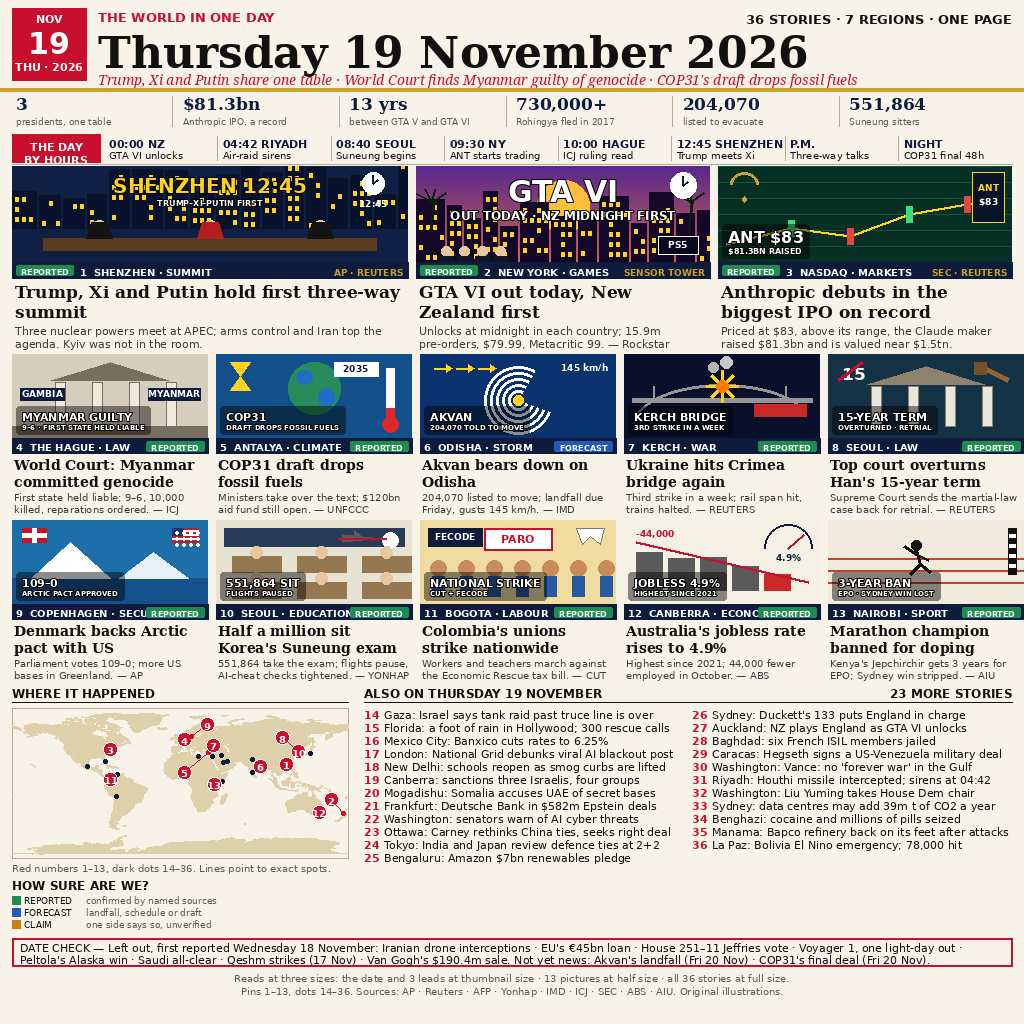
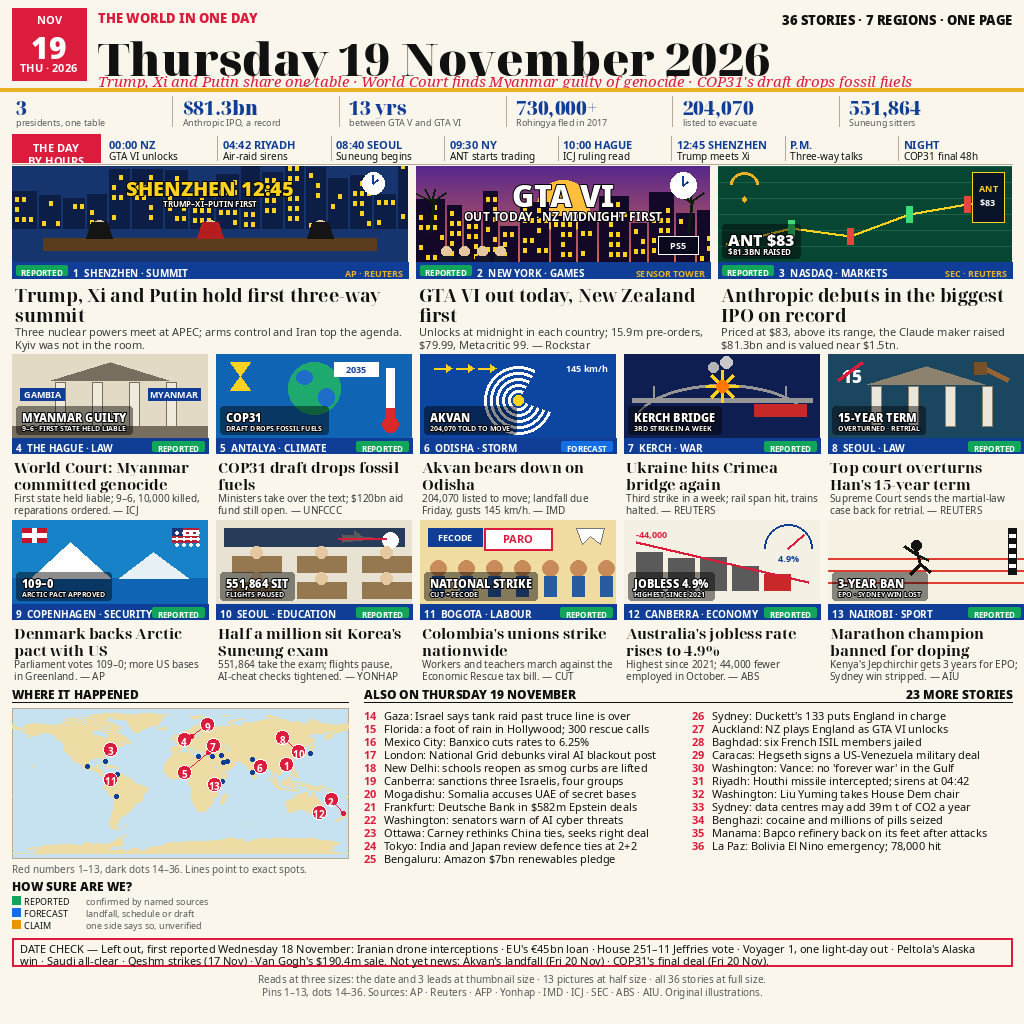
v6: better fonts + brighter colours (Noto Serif Display Black/Bold headlines, Noto Sans labels/body, crimson/blue/gold palette, ocean map, brightened art scenes)

diff --git a/draw.py b/draw.py
@@ -1,15 +1,13 @@
 #!/usr/bin/env python3
-"""news-image-20261119 v5: 36 stories, newspaper front page after the top 1/2.
+"""news-image-20261119 v6: 36 stories, newspaper front page after the top 1/2.
 Draws entry.png (1024x1024, deterministic) from world.geo.json only.
-v5 vs v4: masthead is the date in serif on paper with a red italic deck
-naming the 3 leads; big-numbers strip (3 / $81.3bn / 13 yrs / 730,000+ /
-204,070 / 551,864); timeline retitled THE DAY BY HOURS with the verified
-04:42 Riyadh sirens beat; front 13 reshuffled to the winners' selection —
-ICJ now states the verdict (9-6 guilty, first state ever held liable),
-Kerch bridge (3rd strike in a week), Han's 15-year term overturned,
-Greenland 109-0, Jepchirchir 3-year EPO ban — all verified live 20 Nov;
-every front story carries a REPORTED/FORECAST status pill and the map is
-filled continents (not dots); HOW SURE ARE WE? legend under the map.
+v6 vs v5: better fonts + brighter colours for readability — Noto Serif
+Display Black/Bold for the masthead date, headlines and big numbers,
+Noto Sans Black/Bold for kickers, pills and in-art labels, Noto Sans for
+body text; brighter palette (crimson red, vivid blue, brighter green/blue/
+amber pills, gold rule); map gets a light-blue ocean under brighter sand
+continents; art scenes brightened (summit, Anthropic, COP31, Akvan, Kerch,
+Han, Greenland, marathon).
 Run: python3 draw.py  -> writes entry.png in this directory."""
 import json
 import math
@@ -18,14 +16,16 @@ from PIL import Image, ImageDraw, ImageFont
 
 HERE = os.path.dirname(os.path.abspath(__file__))
 W, H = 1024, 1024
-PAPER = (247, 243, 232)
+PAPER = (250, 246, 235)
 INK = (17, 17, 17)
-NAVY = (14, 27, 61)
-RED = (200, 16, 46)
-GOLD = (201, 162, 39)
+NAVY = (16, 62, 150)
+RED = (220, 28, 60)
+GOLD = (232, 178, 36)
 YELLOW = (255, 210, 31)
 GREY = (90, 90, 90)
 RULE = (180, 170, 150)
+OCEAN = (198, 226, 240)
+SAND = (238, 220, 165)
 
 FD = "/usr/share/fonts/truetype/dejavu"
 FNOTO = "/usr/share/fonts/truetype/noto"
@@ -35,45 +35,45 @@ def font(name, size, base=FD):
     return ImageFont.truetype(os.path.join(base, name), size)
 
 
-F_TITLE = font("DejaVuSerif-Bold.ttf", 44)
-F_EYE = font("DejaVuSans-Bold.ttf", 13)
-F_DECKLINE = font("NotoSerif-Italic.ttf", 14, FNOTO)
-F_DATE = font("DejaVuSans-Bold.ttf", 30)
-F_DATE2 = font("DejaVuSans-Bold.ttf", 11)
-F_TTIME = font("DejaVuSans-Bold.ttf", 11)
-F_TTEXT = font("DejaVuSans.ttf", 10)
-F_KICK = font("DejaVuSans-Bold.ttf", 10)
-F_PILL = font("DejaVuSans-Bold.ttf", 8)
-F_SRC = font("DejaVuSans-Bold.ttf", 9)
-F_HEAD = font("DejaVuSerif-Bold.ttf", 17)
-F_HEAD_S = font("DejaVuSerif-Bold.ttf", 14)
-F_DECK = font("DejaVuSans.ttf", 11)
-F_DECK_S = font("DejaVuSans.ttf", 10)
-F_LABEL = font("DejaVuSans-Bold.ttf", 8)
-F_PIN = font("DejaVuSans-Bold.ttf", 10)
-F_ART = font("DejaVuSans-Bold.ttf", 24)
-F_ART_S = font("DejaVuSans-Bold.ttf", 12)
-F_ART2 = font("DejaVuSans-Bold.ttf", 17)
-F_ART2_S = font("DejaVuSans-Bold.ttf", 11)
-F_FOC = font("DejaVuSans-Bold.ttf", 30)
-F_FOC_S = font("DejaVuSans-Bold.ttf", 12)
-F_FOC23 = font("DejaVuSans-Bold.ttf", 20)   # 2/3 of F_FOC (hero 1 only)
-F_FOC23_S = font("DejaVuSans-Bold.ttf", 8)  # 2/3 of F_FOC_S
-F_LBL = font("DejaVuSans-Bold.ttf", 16)     # 2/3 of F_ART (hero 3 label)
-F_LBL_S = font("DejaVuSans-Bold.ttf", 8)    # 2/3 of F_ART_S
-F_LBL2 = font("DejaVuSans-Bold.ttf", 11)    # 2/3 of F_ART2 (small-card labels)
-F_LBL2_S = font("DejaVuSans-Bold.ttf", 7)   # 2/3 of F_ART2_S
-F_ALSO = font("DejaVuSans.ttf", 11)
-F_ALSO_N = font("DejaVuSans-Bold.ttf", 11)
-F_SEC = font("DejaVuSans-Bold.ttf", 12)
-F_STATB = font("DejaVuSerif-Bold.ttf", 17)
-F_STATC = font("DejaVuSans.ttf", 9)
-F_LEGEND = font("DejaVuSans.ttf", 9)
-F_DATECHK = font("DejaVuSans.ttf", 11)
-F_FOOT = font("DejaVuSans.ttf", 10)
+F_TITLE = font("NotoSerifDisplay-Black.ttf", 46, FNOTO)
+F_EYE = font("NotoSans-Black.ttf", 13, FNOTO)
+F_DECKLINE = font("NotoSerif-Italic.ttf", 15, FNOTO)
+F_DATE = font("NotoSans-Black.ttf", 30, FNOTO)
+F_DATE2 = font("NotoSans-Bold.ttf", 11, FNOTO)
+F_TTIME = font("NotoSans-Bold.ttf", 11, FNOTO)
+F_TTEXT = font("NotoSans-Regular.ttf", 10, FNOTO)
+F_KICK = font("NotoSans-Bold.ttf", 10, FNOTO)
+F_PILL = font("NotoSans-Bold.ttf", 8, FNOTO)
+F_SRC = font("NotoSans-Bold.ttf", 9, FNOTO)
+F_HEAD = font("NotoSerifDisplay-Bold.ttf", 18, FNOTO)
+F_HEAD_S = font("NotoSerifDisplay-Bold.ttf", 15, FNOTO)
+F_DECK = font("NotoSans-Regular.ttf", 11, FNOTO)
+F_DECK_S = font("NotoSans-Regular.ttf", 10, FNOTO)
+F_LABEL = font("NotoSans-Bold.ttf", 8, FNOTO)
+F_PIN = font("NotoSans-Bold.ttf", 10, FNOTO)
+F_ART = font("NotoSans-Black.ttf", 24, FNOTO)
+F_ART_S = font("NotoSans-Bold.ttf", 12, FNOTO)
+F_ART2 = font("NotoSans-Black.ttf", 17, FNOTO)
+F_ART2_S = font("NotoSans-Bold.ttf", 11, FNOTO)
+F_FOC = font("NotoSans-Black.ttf", 30, FNOTO)
+F_FOC_S = font("NotoSans-Bold.ttf", 12, FNOTO)
+F_FOC23 = font("NotoSans-Black.ttf", 20, FNOTO)   # 2/3 of F_FOC (hero 1 only)
+F_FOC23_S = font("NotoSans-Bold.ttf", 8, FNOTO)  # 2/3 of F_FOC_S
+F_LBL = font("NotoSans-Black.ttf", 16, FNOTO)     # 2/3 of F_ART (hero 3 label)
+F_LBL_S = font("NotoSans-Bold.ttf", 8, FNOTO)    # 2/3 of F_ART_S
+F_LBL2 = font("NotoSans-Black.ttf", 11, FNOTO)    # 2/3 of F_ART2 (small-card labels)
+F_LBL2_S = font("NotoSans-Bold.ttf", 7, FNOTO)   # 2/3 of F_ART2_S
+F_ALSO = font("NotoSans-Regular.ttf", 11, FNOTO)
+F_ALSO_N = font("NotoSans-Bold.ttf", 11, FNOTO)
+F_SEC = font("NotoSans-Black.ttf", 12, FNOTO)
+F_STATB = font("NotoSerifDisplay-Black.ttf", 19, FNOTO)
+F_STATC = font("NotoSans-Regular.ttf", 9, FNOTO)
+F_LEGEND = font("NotoSans-Regular.ttf", 9, FNOTO)
+F_DATECHK = font("NotoSans-Regular.ttf", 11, FNOTO)
+F_FOOT = font("NotoSans-Regular.ttf", 10, FNOTO)
 
-PILL_COL = {"REPORTED": (30, 140, 80), "FORECAST": (36, 90, 180),
-            "CLAIM": (200, 130, 10)}
+PILL_COL = {"REPORTED": (16, 165, 90), "FORECAST": (20, 110, 230),
+            "CLAIM": (230, 150, 0)}
 
 TIMELINE = [
     ("00:00 NZ", "GTA VI unlocks"),
@@ -302,13 +302,12 @@ def art_image(key, w, h):
     img = Image.new("RGB", (w, h), PAPER)
     d = ImageDraw.Draw(img)
     if key == "summit":
-        d.rectangle([0, 0, w, h], fill=(16, 32, 68))
-        _skyline(d, w, h, h - 34, (8, 18, 44), 7)
-        # wall clock 12:45, top right (focal text occupies the centre top)
+        d.rectangle([0, 0, w, h], fill=(22, 52, 110))
+        _skyline(d, w, h, h - 34, (12, 30, 70), 7)
+        # wall clock 12:45, top right (no label: the focal text says 12:45)
         d.ellipse([w - 46, 6, w - 24, 28], fill="white")
         d.line([w - 35, 17, w - 35, 9], fill=NAVY, width=2)
         d.line([w - 35, 17, w - 30, 13], fill=NAVY, width=2)
-        d.text((w - 35, 32), "12:45", font=F_SRC, fill="white", anchor="ma")
         # three leaders seated at one round table (below the focal text)
         d.rectangle([w * 0.08, h - 24, w * 0.92, h - 12], fill=(90, 60, 30))
         for i in range(3):
@@ -342,9 +341,9 @@ def art_image(key, w, h):
             d.ellipse([cx - 5, h - 16, cx + 5, h - 6], fill=(230, 200, 160))
             d.rectangle([cx - 7, h - 6, cx + 7, h], fill=(20, 20, 40))
     elif key == "anthropic":
-        d.rectangle([0, 0, w, h], fill=(6, 48, 36))
+        d.rectangle([0, 0, w, h], fill=(8, 70, 52))
         for gy in range(0, h, 16):
-            d.line([0, gy, w, gy], fill=(20, 80, 60), width=1)
+            d.line([0, gy, w, gy], fill=(24, 100, 74), width=1)
         pts = [(8, h - 18), (w * 0.25, h - 34), (w * 0.45, h - 26),
                (w * 0.65, h - 48), (w * 0.85, h - 58), (w - 8, h - 66)]
         for i in range(len(pts) - 1):
@@ -360,7 +359,7 @@ def art_image(key, w, h):
         d.arc([12, 6, 40, 30], 180, 360, fill=GOLD, width=3)
         d.ellipse([24, 30, 28, 36], fill=GOLD)
     elif key == "icj":
-        d.rectangle([0, 0, w, h], fill=(214, 206, 188))
+        d.rectangle([0, 0, w, h], fill=(226, 218, 196))
         d.polygon([(w * 0.2, 26), (w * 0.8, 26), (w * 0.5, 8)], fill=(120, 110, 95))
         for i in range(4):
             cx = int(w * (0.22 + i * 0.19))
@@ -373,8 +372,8 @@ def art_image(key, w, h):
         d.rectangle([w - 60, 34, w - 8, 46], fill=NAVY)
         d.text((w - 34, 40), "MYANMAR", font=F_SRC, fill="white", anchor="mm")
     elif key == "cop31":
-        d.rectangle([0, 0, w, h], fill=(18, 80, 140))
-        d.ellipse([w // 2 - 26, 8, w // 2 + 26, 60], fill=(40, 140, 90))
+        d.rectangle([0, 0, w, h], fill=(16, 100, 180))
+        d.ellipse([w // 2 - 26, 8, w // 2 + 26, 60], fill=(30, 170, 110))
         d.ellipse([w // 2 - 18, 16, w // 2 - 2, 30], fill=(30, 110, 200))
         d.ellipse([w // 2 + 4, 34, w // 2 + 20, 52], fill=(30, 110, 200))
         d.rectangle([w - 26, 14, w - 18, h - 14], fill="white")
@@ -386,7 +385,7 @@ def art_image(key, w, h):
         d.rectangle([w - 78, 8, w - 34, 22], fill="white")
         d.text((w - 56, 15), "2035", font=F_SRC, fill=NAVY, anchor="mm")
     elif key == "akvan":
-        d.rectangle([0, 0, w, h], fill=(10, 50, 110))
+        d.rectangle([0, 0, w, h], fill=(12, 70, 160))
         cx, cy = w // 2, h // 2 + 4
         for r in range(34, 4, -6):
             d.arc([cx - r, cy - r, cx + r, cy + r], 20, 300,
@@ -400,7 +399,7 @@ def art_image(key, w, h):
                       fill=YELLOW)
         d.text((w - 8, 8), "145 km/h", font=F_SRC, fill="white", anchor="ra")
     elif key == "kerch":
-        d.rectangle([0, 0, w, h], fill=(8, 16, 44))
+        d.rectangle([0, 0, w, h], fill=(14, 30, 80))
         # bridge arc + deck across the strait, explosion star mid-span
         d.arc([8, 30, w - 8, h + 30], 200, 340, fill=(150, 150, 150), width=3)
         d.rectangle([8, h - 40, w - 8, h - 36], fill=(150, 150, 150))
@@ -417,7 +416,7 @@ def art_image(key, w, h):
         d.ellipse([cx - 14, 8, cx - 4, 18], fill=(180, 180, 180))
         d.ellipse([cx - 2, 2, cx + 10, 14], fill=(200, 200, 200))
     elif key == "han":
-        d.rectangle([0, 0, w, h], fill=(20, 50, 70))
+        d.rectangle([0, 0, w, h], fill=(26, 70, 96))
         d.polygon([(w * 0.2, 30), (w * 0.8, 30), (w * 0.5, 12)], fill=(140, 130, 110))
         for i in range(4):
             cx = int(w * (0.22 + i * 0.19))
@@ -429,8 +428,8 @@ def art_image(key, w, h):
         d.text((14, 10), "15", font=F_ART2, fill="white")
         d.line([10, 26, 34, 8], fill=RED, width=3)
     elif key == "greenland":
-        d.rectangle([0, 0, w, h], fill=(30, 110, 170))
-        d.rectangle([0, h - 26, w, h], fill=(20, 80, 140))
+        d.rectangle([0, 0, w, h], fill=(24, 130, 200))
+        d.rectangle([0, h - 26, w, h], fill=(16, 100, 180))
         # icebergs + Danish flag left, US flag right
         d.polygon([(w * 0.1, h - 26), (w * 0.3, h - 62), (w * 0.5, h - 26)],
                   fill="white")
@@ -441,10 +440,10 @@ def art_image(key, w, h):
         d.rectangle([20, 8, 24, 22], fill="white")
         _flag(d, w - 36, 8, 26, 14, "us")
     elif key == "marathon":
-        d.rectangle([0, 0, w, h], fill=(240, 235, 220))
+        d.rectangle([0, 0, w, h], fill=(246, 241, 226))
         # track lanes + runner + finish line
         for i in range(3):
-            d.line([0, h - 46 + i * 12, w, h - 46 + i * 12], fill=(200, 60, 50),
+            d.line([0, h - 46 + i * 12, w, h - 46 + i * 12], fill=(222, 62, 48),
                    width=2)
         cx, cy = w // 2 - 10, h - 52
         d.ellipse([cx - 5, cy - 12, cx + 5, cy - 2], fill=(20, 20, 20))
@@ -584,7 +583,7 @@ def draw_map(d, x0, y0, mw, mh):
                 pts.append((px, py))
             # filled continents (v5: like the top entries), not dots
             d.polygon([(x0 + px, y0 + py) for px, py in pts],
-                      fill=(222, 208, 170))
+                      fill=SAND)
 
     def proj(lon, lat):
         return (x0 + (lon + 180.0) / 360.0 * mw,
@@ -711,7 +710,7 @@ def main():
     my = 686
     d.text((12, my), "WHERE IT HAPPENED", font=F_SEC, fill=INK)
     d.line([12, my + 16, 348, my + 16], fill=INK, width=1)
-    d.rectangle([12, my + 22, 348, my + 172], outline=RULE, width=1)
+    d.rectangle([12, my + 22, 348, my + 172], fill=OCEAN, outline=RULE, width=1)
     draw_map(d, 12, my + 22, 336, 150)
     d.text((12, my + 176), "Red numbers 1\u201313, dark dots 14\u201336. Lines point to exact spots.",
            font=F_TTEXT, fill=GREY)
